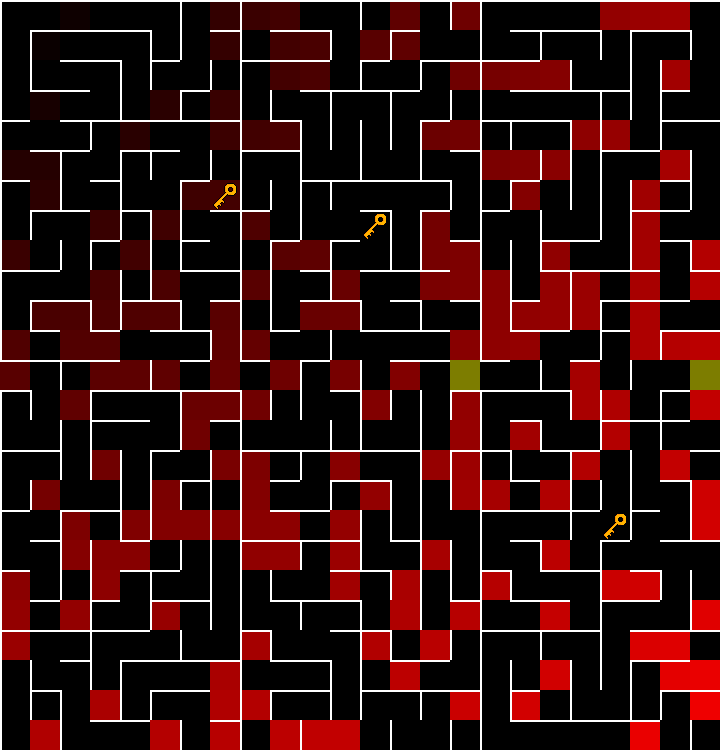
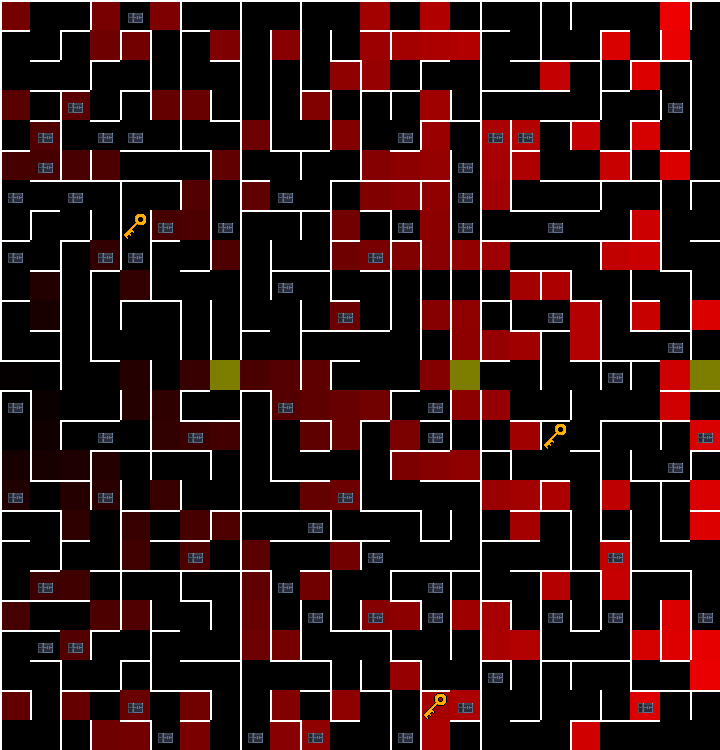
ajout coffres dans `Map`

diff --git a/map.py b/map.py
@@ -22,7 +22,7 @@ class Room:
             "top": True,
             "bottom": True,
         }
-        self.items = []
+        self.chest = random.random() < 0.1
         self.monster = random.random() < 0.3
 
 class Map:
@@ -224,6 +224,9 @@ class Map:
         self.key_img = pygame.image.load("assets/images/key.png").convert_alpha()
         self.key_img = pygame.transform.smoothscale(self.key_img, (cell_size_x, cell_size_y))
 
+        self.chest_image = pygame.image.load("assets/images/chest/chest1.png").convert_alpha()
+        self.chest_image = pygame.transform.scale(self.chest_image, (cell_size_x, cell_size_y))
+
         for y in range(self.height):
             for x in range(self.width):
                 forced_color = (0, 0, 255) if (x, y) == player_pos else None
@@ -260,7 +263,6 @@ class Map:
             intensity = int(dist * 255 / max_dist)
             color = (intensity, 0, 0)
 
-
         if room_type == "locked":
             color = (125, 125, 0)
 
@@ -274,6 +276,8 @@ class Map:
 
         if room_type == "key":
             surface.blit(self.key_img, (px, py))
+        if room.chest:
+            surface.blit(self.chest_image, (px, py))
 
         wall_thickness = 2
         wall_color = (255, 255, 255)
@@ -304,6 +308,8 @@ class Map:
         surface = pygame.Surface((width_px, height_px), pygame.SRCALPHA)
 
         self.key_img = pygame.image.load("assets/images/key.png")
+        self.chest_image = pygame.image.load("assets/images/chest/chest1.png")
+        self.chest_image = pygame.transform.scale(self.chest_image, (cell_size, cell_size))
 
         for y in range(self.height):
             for x in range(self.width):
